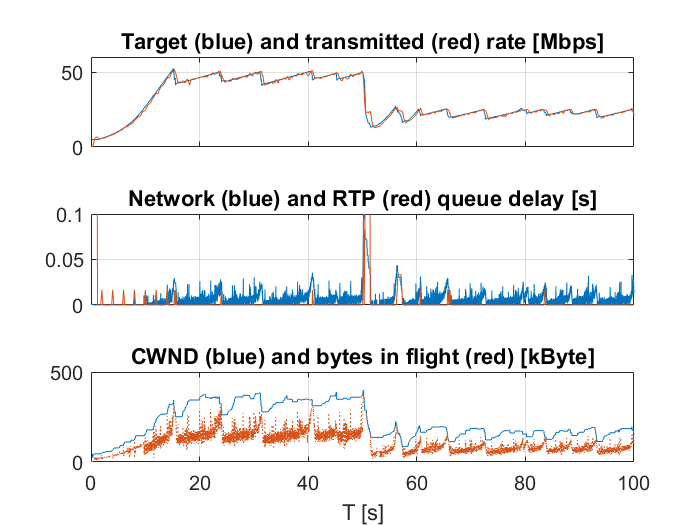
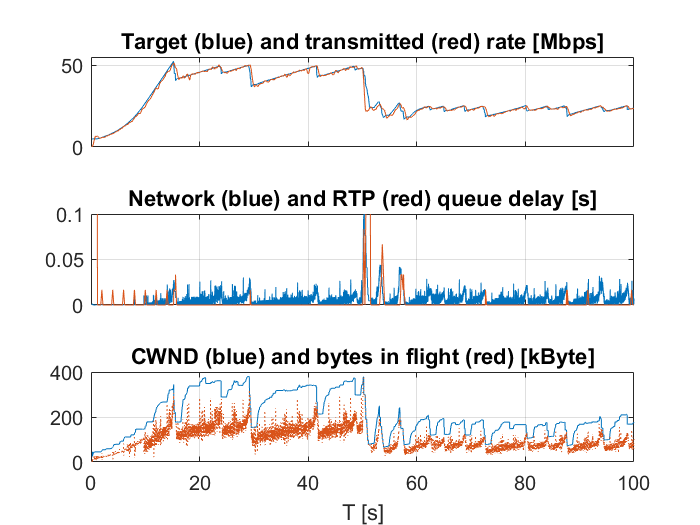
Updated text and images

diff --git a/README.md b/README.md
@@ -29,9 +29,11 @@ In addition SCReAM also supports L4S, i.e that the sending rate is reduced propo
 
 Below is shown three examples with a simple 50Mbps bottleneck that changes to 25Mbps after 50s, the min RTT is 20ms. 
 
-The graphs show that ECN improves on the e2e delay and that the use of L4S reduces the delay considerably more. L4S gives a somewhat lower media rate, the reason is that a larger headroom is added to ensure the low delay, given the varying output rate of the video encoder. 
+The graphs show that ECN improves on the e2e delay and that the use of L4S reduces the delay considerably more. 
 
-Note carefully that the scales in the graphs differ, especially the delay graph is zoomed in for the L4S alternative to illustrate the very low queue delay. 
+L4S gives a somewhat lower media rate, the reason is that a larger headroom is added to ensure the low delay, considering the varying output rate of the video encoder. This is self-adjusting by inherent design, the average bitrate would increase if the frame size variations are smaller.
+
+Note carefully that the scales in the graphs differ, especially the delay graph is zoomed in for the L4S alternative to illustrate the very low queue delay. It is obvious that L4S gives a much lower queue delay.
 
 ![Simple bottleneck simulation SCReAM no ECN support](https://github.com/EricssonResearch/scream/blob/master/images/scream_noecn_2.png)
 
@@ -39,11 +41,11 @@ Figure 2 : SCReAM without ECN support
     
 ![Simple bottleneck simulation SCReAM with ECN support](https://github.com/EricssonResearch/scream/blob/master/images/scream_ecn_2.png)
 
-Figure 3 : SCReAM with ECN support (CoDel)
+Figure 3 : SCReAM with ECN support ECN beta = 0.8. CoDel with default settings (5ms, 100ms)  
 
 ![Simple bottleneck simulation SCReAM with L4S support](https://github.com/EricssonResearch/scream/blob/master/images/scream_l4s_2.png)
 
-Figure 4 : SCReAM with L4S support
+Figure 4 : SCReAM with L4S support. L4S ramp-marker (Th_low=2ms, Th_high=10ms)
 
 ----------
 
